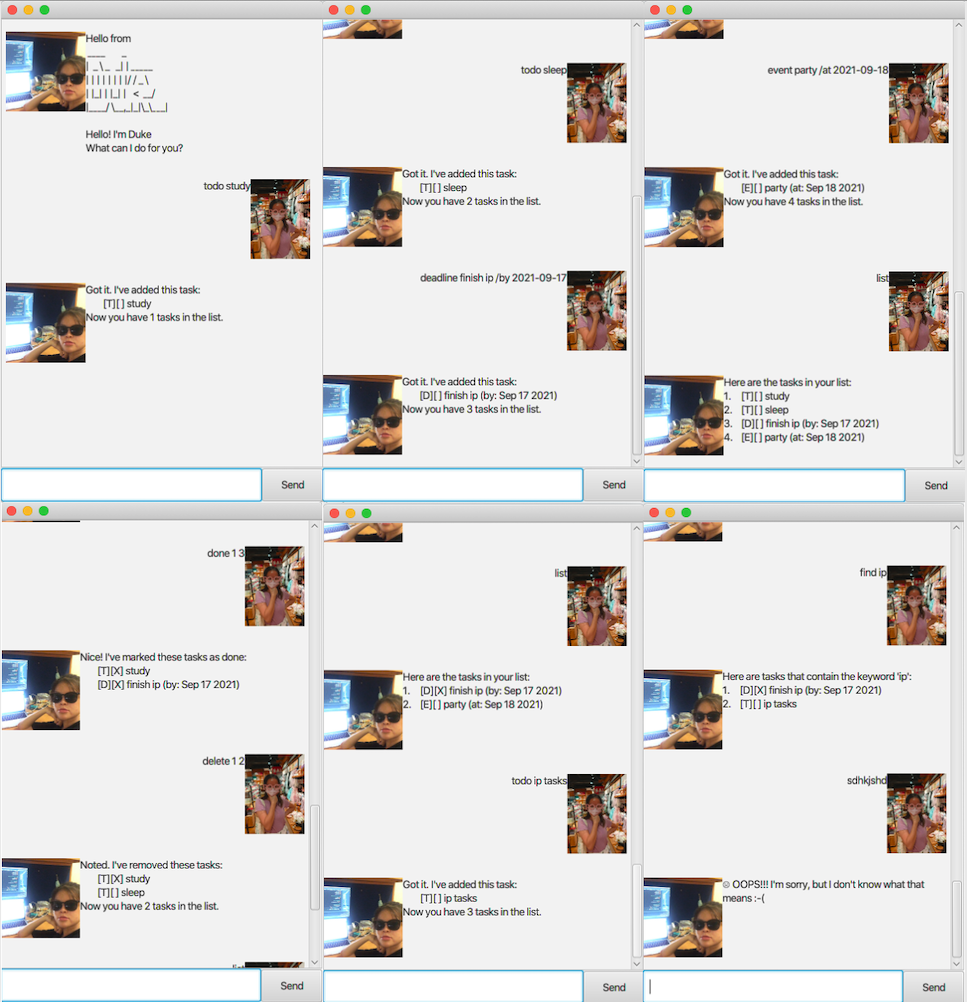
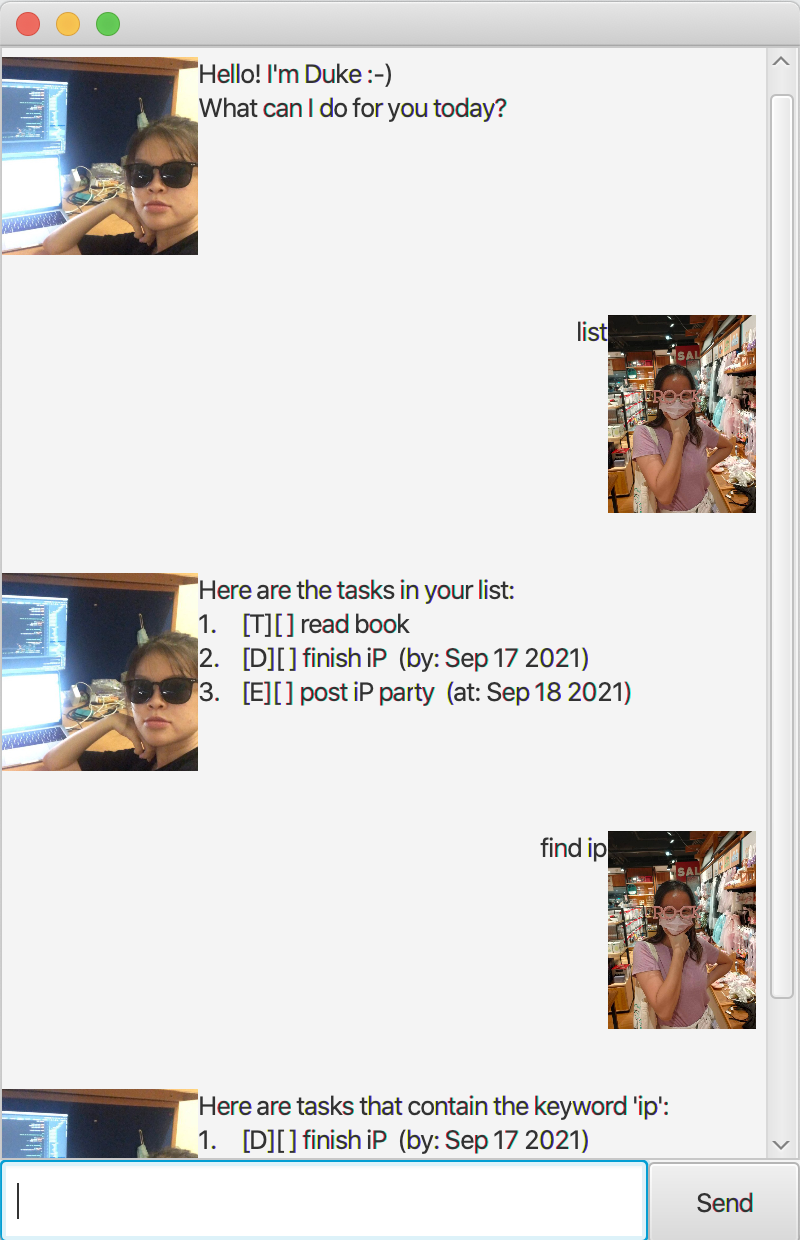
Fix Storage function

diff --git a/src/main/java/duke/Storage.java b/src/main/java/duke/Storage.java
@@ -4,6 +4,8 @@ import java.io.FileNotFoundException;
 import java.io.FileWriter;
 import java.io.IOException;
 import java.io.PrintWriter;
+import java.time.LocalDate;
+import java.time.format.DateTimeFormatter;
 import java.util.Scanner;
 
 import duke.task.Deadline;
@@ -11,7 +13,6 @@ import duke.task.Event;
 import duke.task.Task;
 import duke.task.TaskList;
 import duke.task.Todo;
-
 
 
 /**
@@ -27,12 +28,13 @@ public class Storage {
      *
      * @param filePath Path for the .txt file that the tasks are stored in.
      */
-    public Storage(String filePath) {
+    public Storage(String filePath) throws IOException, DukeException {
         this.filePath = filePath;
+        this.ls = this.load();
     }
 
     /**
-     * Rewrites the .txt file according to the updated TaskList.
+     * Rewrites the duke.txt file according to the updated TaskList.
      *
      * @param ls The current TaskList.
      */
@@ -100,35 +102,52 @@ public class Storage {
             Todo tTask = new Todo(taskDesc);
             return tTask;
         } else if (input.startsWith("D")) {
-            String taskDesc = input.substring(7);
+            String taskDesc = getDesc(input.substring(7));
             String taskDate = getDate(input);
             Deadline dTask = new Deadline(taskDesc, taskDate);
             return dTask;
         } else {
-            String taskDesc = input.substring(7);
+            String taskDesc = getDesc(input.substring(7));
             String taskDate = getDate(input);
             Event eTask = new Event(taskDesc, taskDate);
             return eTask;
         }
     }
 
+    public String getDesc(String input) {
+        int endIndex = 0;
+        int count = 0;
+        for (int i = 0; i < input.length(); i++) {
+            if (input.charAt(i) == '|') {
+                count++;
+                if (count == 1) {
+                    endIndex = i;
+                }
+            }
+        }
+        return input.substring(0, endIndex);
+    }
+
     /**
      * Gets the date of the tasks for Deadlines and Events.
      *
      * @param input String representation of the task.
-     * @return String representation of the date of the task.
+     * @return String representation of the date of the task in yyyy-mm-dd format.
      */
     public String getDate(String input) {
         int endIndex = 0;
         int count = 0;
         for (int i = 0; i < input.length(); i++) {
             if (input.charAt(i) == '|') {
+                count++;
                 if (count == 3) {
-                    endIndex = i;
+                    endIndex = i + 2;
                 }
             }
         }
-        return input.substring(endIndex);
+        String oldDate = input.substring(endIndex);
+        String newDate = LocalDate.parse(oldDate, DateTimeFormatter.ofPattern( "MMM dd yyyy"))
+                .format(DateTimeFormatter.ofPattern( "uuuu-MM-dd"));
+        return newDate;
     }
-
 }

diff --git a/src/main/java/duke/Duke.java b/src/main/java/duke/Duke.java
@@ -14,14 +14,15 @@ public class Duke {
     private TaskList tasks;
     private Ui ui;
 
-    public Duke() { }
+    public Duke() {
+    }
 
     /**
      * Constructor for Duke.
      *
      * @param filePath Path of the .txt file the tasks are stored in.
      */
-    public Duke(String filePath) {
+    public Duke(String filePath) throws IOException, DukeException {
         ui = new Ui();
         storage = new Storage(filePath);
         try {
@@ -60,7 +61,7 @@ public class Duke {
      *
      * @param args The command line arguments.
      */
-    public static void main(String[] args) {
+    public static void main(String[] args) throws IOException, DukeException {
         new Duke("duke.txt").run();
     }
 

diff --git a/src/main/java/duke/Ui.java b/src/main/java/duke/Ui.java
@@ -26,13 +26,7 @@ public class Ui {
      * @return Welcome statement.
      */
     public String showWelcome() {
-        String logo = " ____        _        \n"
-                + "|  _ \\ _   _| | _____ \n"
-                + "| | | | | | | |/ / _ \\\n"
-                + "| |_| | |_| |   <  __/\n"
-                + "|____/ \\__,_|_|\\_\\___|\n";
-        return ("Hello from\n" + logo + "\n"
-                + "Hello! I'm Duke\n" + "What can I do for you?");
+        return ("Hello! I'm Duke :-)\n" + "What can I do for you today?");
     }
 
     /**

diff --git a/src/main/java/duke/task/Deadline.java b/src/main/java/duke/task/Deadline.java
@@ -41,7 +41,7 @@ public class Deadline extends Task {
      */
     @Override
     public String toString() {
-        return "\t[D]" + super.toString() + " (by: " + deadline + ")";
+        return "\t[D]" + super.toString() + " (by: " + this.deadline + ")";
     }
 
     /**

diff --git a/src/main/java/duke/Main.java b/src/main/java/duke/Main.java
@@ -15,6 +15,9 @@ public class Main extends Application {
 
     private Duke duke = new Duke("duke.txt");
 
+    public Main() throws IOException, DukeException {
+    }
+
     @Override
     public void start(Stage stage) {
         try {

diff --git a/docs/README.md b/docs/README.md
@@ -1,33 +1,51 @@
 # User Guide
 
+Duke helps you keep track of your todos, deadlines and events.
+
 ## Features 
 
-### Keep track of your tasks with Duke's todo list!
+### 1. Keep track of your tasks with Duke's todo list!
 
 Duke supports 3 types of tasks:
-1. **todo**: Tasks to be completed in your own time.
-2. **deadline**: Tasks to be completed by a deadline.
-3. **event**: Events that occur on an event date.
+A. **todo**: Tasks to be completed in your own time.
+B. **deadline**: Tasks to be completed by a deadline.
+C. **event**: Events that occur on an event date.
 
-### Mark tasks as done
+
+### 2. Mark tasks as done
 
 Checks off the tasks that you have marked as done.
 
-### List
 
-Lists all your current tasks.
-
-### Delete tasks
+### 3. Delete tasks
 
 Delete the tasks that are no longer relevant.
 
-### Search among tasks
+
+### 4. List
+
+Lists all your current tasks.
+
+
+### 5. Search among tasks
 
 Search for tasks containing a keyword of your choice.
 
+
+### 6. Save
+
+Automatically save task to your hard disk.
+
+
+### 7. Exit
+
+Close the program with a single command.
+
+
+
 ## Usage
 
-### `todo` - Add a todo task
+### 1A. `todo` - Add a todo task
 
 Add a todo task to the current task list.
 
@@ -46,7 +64,7 @@ Now you have 1 task in the list.
 ```
 
 
-### `deadline` - Add a deadline task
+### 1B. `deadline` - Add a deadline task
 
 Add a deadline task to the current task list.
 
@@ -65,7 +83,7 @@ Now you have 2 tasks in the list.
 ```
 
 
-### `event` - Add an event task
+### 1C. `event` - Add an event task
 
 Add an event task to the current task list.
 
@@ -84,7 +102,7 @@ Now you have 3 tasks in the list.
 ```
 
 
-### `done` - Mark tasks as done
+### 2. `done` - Mark tasks as done
 
 Check task off in the task list to represent it as done. Able to check multiple tasks off at once.
 
@@ -103,7 +121,7 @@ Nice! I've marked these tasks as done:
 ```
 
 
-### `delete` - Delete tasks of your choice
+### 3. `delete` - Delete tasks of your choice
 
 Delete tasks off the task list. Able to delete multiple tasks at once.
 
@@ -123,7 +141,7 @@ Now you have 1 tasks in the list.
 ```
 
 
-### `list` - Display current task list
+### 4. `list` - Display current task list
 
 Display current task list.
 
@@ -148,7 +166,7 @@ Here are the tasks in your list:
 
 
 
-### `find` - Search for tasks containing keyword
+### 5. `find` - Search for tasks containing keyword
 
 Display tasks containing any keyword, phrase or letter of the user's choice.
 
@@ -166,7 +184,12 @@ Here are tasks that contain the keyword 'book':
 ```
 
 
-### `bye` - Close the application
+### 6. Save tasks to disk
+
+Automatically save the tasks to disk.
+
+
+### 7. `bye` - Close the application
 
 Terminate and close the application.
 
@@ -178,10 +201,6 @@ _Expected outcome:_
 
 Terminate and close the application.
 
-
-### Save tasks to disk
-
-Automatically save the tasks to disk.
 
 
 ## Acknowledgements:
